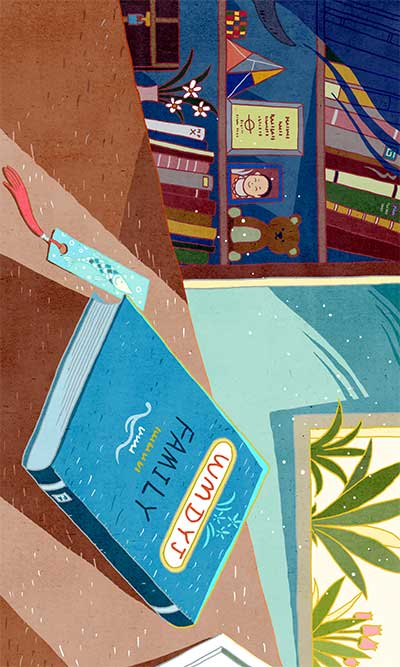
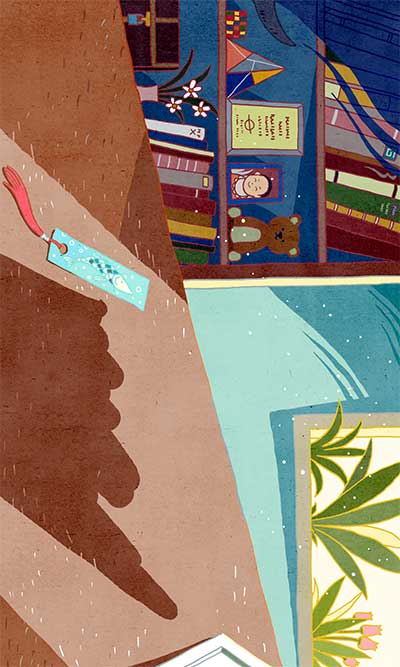
newnew

Changed region(s): [[0.03, 0.4198, 0.69, 0.9595]]

diff --git a/js/app.js b/js/app.js
@@ -11,28 +11,41 @@
         page7: $("#page7"),
         page8: $("#page8"),
         page9: $("#page9"),
+        page9book: $("#page9Book"),
         page10: $("#page10"),
         page10Input: $("#sPhoto"),
         page10Img: $("#page10-photo"),
         page10tip: $(".page10-tip"),
         page10tipbox: $(".page10-tip-box"),
         page10tipbg: $(".page10-tip-bg"),
+        page10close: $(".page10-tip-close"),
 	},
 
 	app = {
 		init: function() {      
             this.initEvent();   
-            // this.loading();   
+            this.loading();   
             // this.render();  
         },
-        loading: function() {   
-            function a() {      
-                d++, d == 5 && app.render();
-            }
-            for (var b = ["images/page1-bg.jpg", "images/page1-printer-top.png", "images/page1-printer-photo.png", "images/page1-percent.png"], c = b.length, d = 0, e = 0; c > e; e++) {
-                var g = new Image();
-                g.onload = a;
-                g.src = b[e];
+        loading: function() {
+            var _this = this; 
+            var imgsrc = ['page1-bg.jpg','page2-bg.jpg','page3-bg.jpg','page4-bg.jpg','page5-bg.jpg','page6-bg.jpg','page7-bg.jpg','page8-bg.jpg','page9-bg.jpg','page10-bg.jpg','page11-bg.jpg','page1-percent.png','page1-printer-photo.png','page1-printer-top.png','page2-bookmark2.png'],imgscount = imgsrc.length,imgsnow = 0,imgobj = [];//,'icon.png''arrow.png','titles.png',
+            for(var i = 0;i<imgscount;i++){
+                imgobj[i] = new Image();
+                imgobj[i].onload =function(){
+                    imgsnow++;
+                    if(imgsnow == imgscount){
+                        _this.render();  
+                    }
+                }
+                imgobj[i].onerror =function(){
+                    imgsnow++;
+                    if(imgsnow == imgscount){
+                        _this.render();  
+                    }
+                }   
+                imgobj[i].src = "http://"+window.location.host+window.location.pathname.replace(/[^\/]*$/,"")+"images/"+imgsrc[i];
+
             }
         }, 
         initEvent: function() {
@@ -84,6 +97,10 @@
                     },8000)
                 },4500)
         	});
+            elements.page9book.on('tap', function() {
+                elements.page9.hide();
+                elements.page10.show();
+            });
             elements.page10Input.on('change', function() {
                 // console.log(this.value)
                 // elements.page10Img.attr("src", "file:///"+this.value);
@@ -101,10 +118,14 @@
                 elements.page10tipbox.find('p').width(screenHeight*.7)
                 elements.page10tipbox.show();
             });
+            elements.page10close.on('tap', function() {
+                elements.page10tipbox.hide();
+            });
            
         },
 
         render: function() {
+            $("body").removeClass("hide");
             setTimeout(function() {
                 elements.page1.hide();
                 elements.page2.show();
@@ -115,21 +136,23 @@
             var reader = new FileReader();  
             reader.onload = function (e) { 
                 var dataURL = e.target.result
-                    , canvas = document.querySelector('canvas')
-                    , ctx = canvas.getContext('2d')
+                    , canvas10 =  document.getElementById("page10Canvas")
+                    , canvas11 =  document.getElementById("page11Canvas")
                     , img = new Image()
                     , screenWidth = document.body.clientWidth
                     , screenHeight = document.body.clientHeight;
                 img.onload = function() { 
-                    var square = 320;  
-                    var context = canvas.getContext('2d'); 
-                    context.clearRect(0, 0, square, square); 
-                    alert(screenWidth);
-                    alert(screenHeight);
+                    // var square = 320;  
+                    var context10 = canvas10.getContext('2d'); 
+                    var context11 = canvas11.getContext('2d'); 
                     var imageWidth = screenWidth*.5; 
                     var imageHeight = screenHeight*.35; 
-                    canvas.width = imageWidth; 
-                    canvas.height = imageHeight;
+                    context10.clearRect(0, 0, screenWidth*.5, screenHeight*.35); 
+                    context11.clearRect(0, 0, screenWidth*.54, screenHeight*.38); 
+                    canvas10.width  = screenWidth*.5; 
+                    canvas10.height = screenHeight*.35;
+                    canvas11.width = screenWidth*.54;
+                    canvas11.height = screenHeight*.38;
                     var offsetX = 0; 
                     var offsetY = 0; 
                     // if (this.width > this.height) { 
@@ -141,9 +164,14 @@
                     //     imageWidth = square;  
                     //     offsetY = - Math.round((imageHeight - square) / 2);  
                     // }   
-                    context.drawImage(this, offsetX, offsetY, imageWidth, imageHeight); 
+                    context10.drawImage(this, offsetX, offsetY, screenWidth*.5, screenHeight*.35); 
+                    context11.drawImage(this, offsetX, offsetY, screenWidth*.54, screenHeight*.38); 
                     // var base64 = canvas.toDataURL('image/jpeg',0.5); $('#j_thumb').val(base64.substr(22)); 
-                    $(".page9-photo").addClass("page9-photoAnimation");
+                    $(".page10-photo").addClass("page10-photoAnimation");
+                    setTimeout(function() {
+                        $("#page10").hide();
+                        $("#page11").show();
+                    },3000)
                 }; 
                 img.src = dataURL; 
             };  reader.readAsDataURL(file); 

diff --git a/css/css.css b/css/css.css
@@ -721,19 +721,44 @@ html,body{
 .page9 {
 	background: url(../images/page9-bg.jpg) 0 50% no-repeat;
 	background-size: 100% 100%;
-	/*transform: translate3d(0,-400%,0);*/
+	transform: translate3d(0,-400%,0);
 /*	transition: transform 2s;
 	-webkit-transition: transform 2s;*/
 	/*opacity:0;*/
 }
-.page9 .page2-book-bookmark2{
-	top: 2.4%;
-  left: 1%;
+.page9 .page9-book{
+	top: 44%;
+	left: 5.3%;
+	width: 63.67%;
+	height: 51.2%;
+	position: absolute;
+	background: url(../images/page9-book.png) 0 50% no-repeat;
+	background-size: 100% 100%;
+	-webkit-animation: page9-book 3s ease-in forwards;
+	animation: page9-book 3s ease-in forwards;
+	z-index: 9;
+	opacity: 0;
 }
-
+@keyframes page9-book{
+	0% {
+		opacity: 0;
+	}
+	100%{
+		opacity: 1;
+	}
+}
+@-webkit-keyframes page9-book{
+	0% {
+		opacity: 0;
+	}
+	100%{
+		opacity: 1;
+	}
+}
 .page10 {
 	background: url(../images/page10-bg.jpg) no-repeat;
 	background-size: 100% 100%;
+	transform: translate3d(0,-400%,0);
 	position: relative;
 }
 .page10 .page10-title{
@@ -766,8 +791,10 @@ html,body{
 .page10 .page10-btn input{
 	position: absolute;
 	display: block;
-	width: 100%;
-	height: 12.7rem;
+	height: 3.133rem;
+	width: 12.7rem;
+	right: 0;
+    top: 0;
 	opacity: 0;
 	z-index: 999;
 }
@@ -793,7 +820,7 @@ html,body{
 }
 .page10-tip-close{
 	height: 5.332%;
-	width: 8.8932%;
+	width: 7.8932%;
 	position: absolute;
 	bottom: 2%;
 	right: 3%;
@@ -801,15 +828,16 @@ html,body{
 	background-size: 100% 100%;
 	z-index: 1002
 }
-.page10-tip-box .page-tip-text {
+.page10-tip-box .page10-tip-text {
 	position: absolute;
-	top: 10rem;
-	left: 1rem;
-	color: #fff;
-	font-size: 1.25rem;
+	width: 53.5%;
+	height: 75.7%;
+	top: 7%;
+	left: 50%;
+	margin-left: -26.75%;
+	background: url(../images/page10-tip-text.png) no-repeat;
+	background-size: 100% 100%;
 	z-index: 1001;
-	transform:rotate(90deg);
-	-webkit-transform:rotate(90deg);
 }
 .page10-tip-box .page-tip-text p{
 	width: 130%;
@@ -842,3 +870,24 @@ html,body{
 	0% {-webkit-transform: rotateX(0) rotateY(48deg) rotateZ(-38deg) translate(0.22875rem,1.14375rem);}
 	100% {-webkit-transform: rotateX(0) rotateY(48deg) rotateZ(-38deg) translate(0,0);}
 }
+
+.page11{
+	background: url(../images/page11-bg.jpg) 0 50% no-repeat;
+	background-size: 100% 100%;
+	transform: translate3d(0,-400%,0);
+ 	perspective: 1000;
+	-webkit-perspective: 1000;
+}
+.page11 .page11-photo{
+	width:54%;
+	height:38%;
+	background: url(../images/page11-bg.jpg) 0 50% no-repeat;
+	background-size: 100% 100%;
+	position: absolute;
+	left: 25%;
+	top: 56%;
+	border: 2px solid #bfae83;
+	transform: rotateX(50deg) rotateY(34deg) ;
+	
+}
+

diff --git a/index.html b/index.html
@@ -23,8 +23,8 @@
 
 
 </head>
-<body>
-	<div class="page page1 hide" id="page1">
+<body class="hide">
+	<div class="page page1" id="page1">
 		<div class="page1-printer">
 			<div class="page1-printer-percent"></div>
 			<div class="page1-printer-top"></div>
@@ -64,9 +64,9 @@
 		<div></div>
 	</div>
 	<div class="page page9 hide" id="page9">
-		<div class="page2-book-bookmark2" id="bookmark2"></div>
+		<div class="page9-book" id="page9Book"></div>
 	</div>
-	<div class="page page10 " id="page10">
+	<div class="page page10 hide" id="page10">
 		<div class="page10-title">选择上传一张照片体验打印的乐趣吧！<br/>更有精美礼品等着你！</div>
 		<div class="page10-btn">
 			拍照或从相册选择
@@ -74,23 +74,22 @@
 		</div>
 		<div class="page1-printer-top"></div>
 		<div class="page10-photo">
-			<canvas></canvas>
+			<canvas id="page10Canvas"></canvas>
 		</div>
 		<i class="page10-tip"></i>
 		<div class="page10-tip-box">
 			<div class="page10-tip-bg">
 				<div class="page10-tip-close"></div>
 			</div>
-			<div class="page-tip-text">
-				<p>1.活动时间：9.30-10.9 （获奖公布时间10.16）</p>
-				<p>2.评奖规则：每日后台随机抽选一位幸运参与者</p>
-				<p>3.公布平台：佳能官方微信订阅号</p>
-				<p>4.礼品详情：获奖网友将获得精美相册一本，以及丰富相册装饰物一套</p>
+			<div class="page10-tip-text">
+				
 			</div>
 		</div>
 	</div>
 	<div class="page page11 hide" id="page11">
-
+		<div class="page11-photo">
+			<canvas id="page11Canvas"></canvas>
+		</div>
 	</div>
 	<script src="js/app.js"></script>   
 </body>
